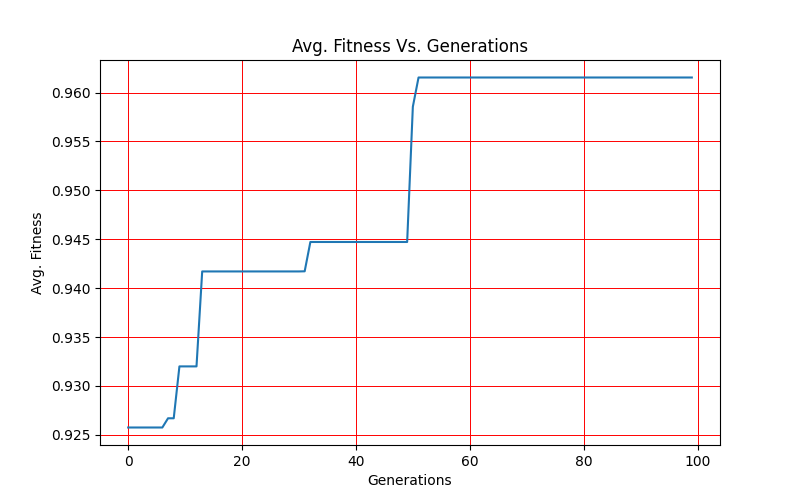
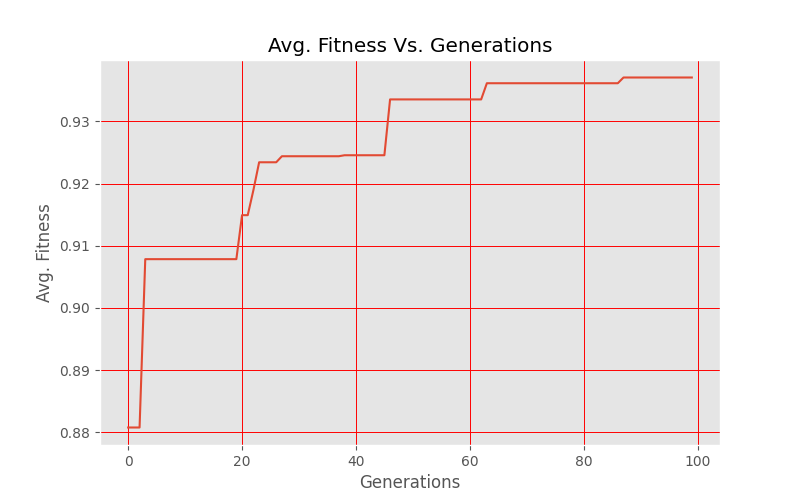
Improved code performance by deleting two for loops

diff --git a/GA_Optimizer/WindForm_GA.py b/GA_Optimizer/WindForm_GA.py
@@ -6,11 +6,9 @@ from datetime import datetime
 class GAOptimizer(object):
     def __init__(self, rows=21, cols=21, no_of_turbines=0, pop_size=100, iteration=20, cell_width=0, elite_rate=0.2,
                  cross_rate=0.6, random_rate=0.5, mutate_rate=0.1):
-        self.f_theta_v = np.array([[1.0]], dtype=np.float32)
         self.velocity = np.array([13.0], dtype=np.float32)  # 1
         # Wind direction form W --> E i.e 90 degrees.
-        self.theta = np.array([3 * np.pi / 6.0],
-                              dtype=np.float32)
+        self.theta = np.array([3 * np.pi / 6.0], dtype=np.float32)
         self.turbine = Turbine()
         self.rows = rows
         self.cols = cols
@@ -91,6 +89,7 @@ class GAOptimizer(object):
                     pop_indices[i, j] = null_turbine_pos
                     break
             pop_indices[i, :] = np.sort(pop_indices[i, :])
+        return pop_indices
 
     def crossover(self, N, pop, pop_indices, pop_size, n_parents,
                   parent_layouts, parent_pop_indices):
@@ -112,7 +111,7 @@ class GAOptimizer(object):
                     pop_indices[n_counter, :cross_point] = parent_pop_indices[male, :cross_point]
                     pop_indices[n_counter, cross_point:] = parent_pop_indices[female, cross_point:]
                     n_counter += 1
-        return
+        return pop_indices
 
     def select(self, pop, pop_indices, pop_size, elite_rate, random_rate):
         n_elite = int(pop_size * elite_rate)
@@ -143,22 +142,13 @@ class GAOptimizer(object):
                     ind_position[ind_pos] = ind
                     ind_pos += 1
             lp_power_accum = np.zeros(N, dtype=np.float32)  # a specific layout power accumulate
-            for ind_t in range(len(self.theta)):
-                for ind_v in range(len(self.velocity)):
-                    trans_matrix = np.array(
-                        [[np.cos(self.theta[ind_t]), -np.sin(self.theta[ind_t])],
-                         [np.sin(self.theta[ind_t]), np.cos(self.theta[ind_t])]],
-                        np.float32)
 
-                    trans_xy_position = np.matmul(trans_matrix, xy_position)
-                    speed_deficiency = simplified_gaussian_wake(trans_xy_position, N, self.turbine.rator_diameter)
+            speed_deficiency = simplified_gaussian_wake(xy_position, N, self.turbine.rator_diameter)
 
-                    actual_velocity = (1 - speed_deficiency) * self.velocity[ind_v]
-                    lp_power = self.layout_power(actual_velocity,
-                                                 N)  # total power of a specific layout specific wind speed specific theta
-                    lp_power = lp_power * self.f_theta_v[ind_t, ind_v]
-                    lp_power_accum += lp_power
-
+            actual_velocity = (1 - speed_deficiency) * self.velocity[0]
+            # total power of a specific layout specific wind speed specific theta
+            lp_power = self.layout_power(actual_velocity,N)
+            lp_power_accum += lp_power
             fitness_val[i] = np.sum(lp_power_accum)
         return fitness_val, xy_position, lp_power_accum
 
@@ -203,9 +193,9 @@ class GAOptimizer(object):
                                                                         pop_size=self.pop_size,
                                                                         elite_rate=self.elite_rate,
                                                                         random_rate=self.random_rate)
-            self.crossover(N=self.no_of_turbines, pop=pop, pop_indices=pop_indices, pop_size=self.pop_size,
-                           n_parents=n_parents, parent_layouts=parent_layouts,
-                           parent_pop_indices=parent_pop_indices)
+            self.crossover(N=self.no_of_turbines, pop=pop, pop_indices=pop_indices,
+                           pop_size=self.pop_size, n_parents=n_parents,
+                           parent_layouts=parent_layouts, parent_pop_indices=parent_pop_indices)
 
             self.mutation(rows=self.rows, cols=self.cols, N=self.no_of_turbines, pop=pop, pop_indices=pop_indices,
                           pop_size=self.pop_size, mutation_rate=self.mutate_rate)

diff --git a/main.py b/main.py
@@ -91,8 +91,8 @@ def test_crossover_rate():
                 xlabel='Crossover Rate', ylabel='Conversion Efficiency', save=True, in_parent=False)
 
 
-# run_optimizer()
+run_optimizer()
 
-# test_pop_size()
+test_pop_size()
 test_mutation_rate()
 test_crossover_rate()
